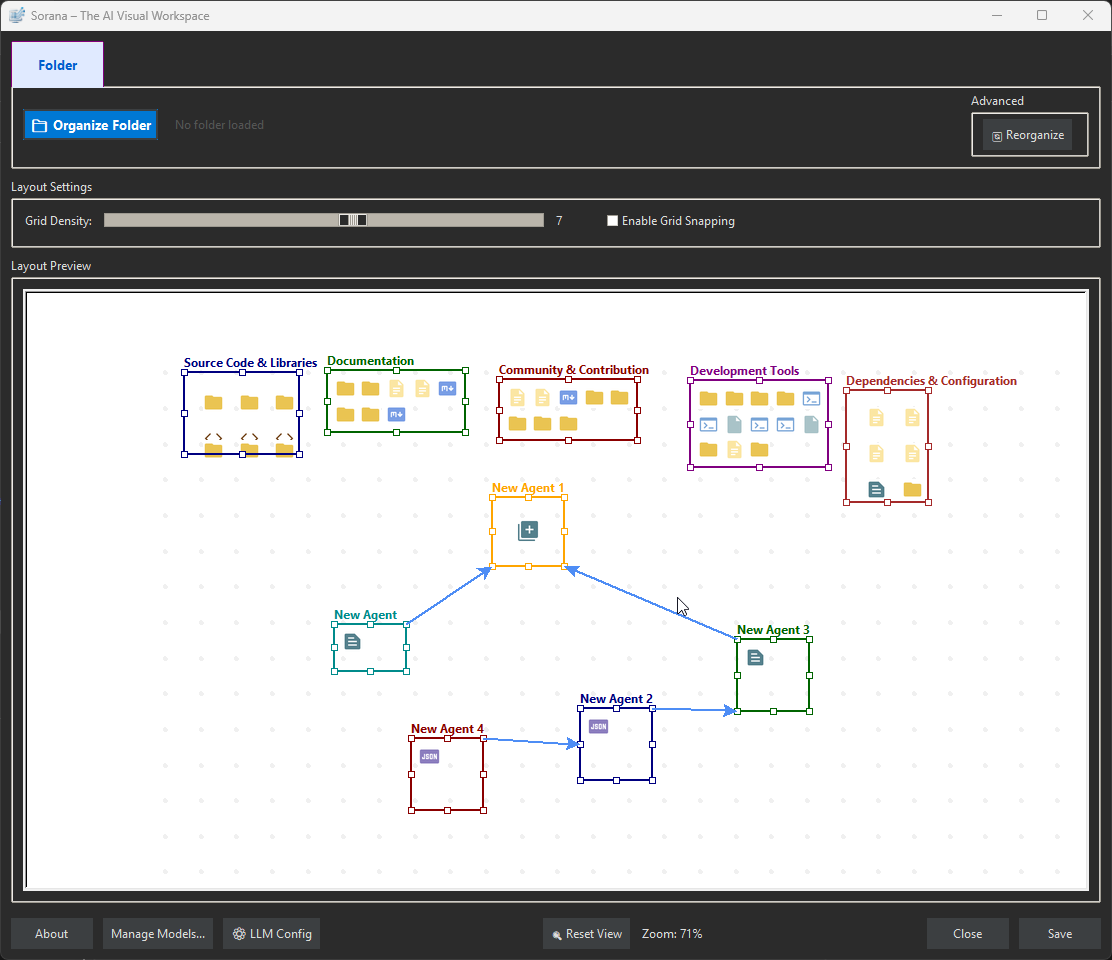
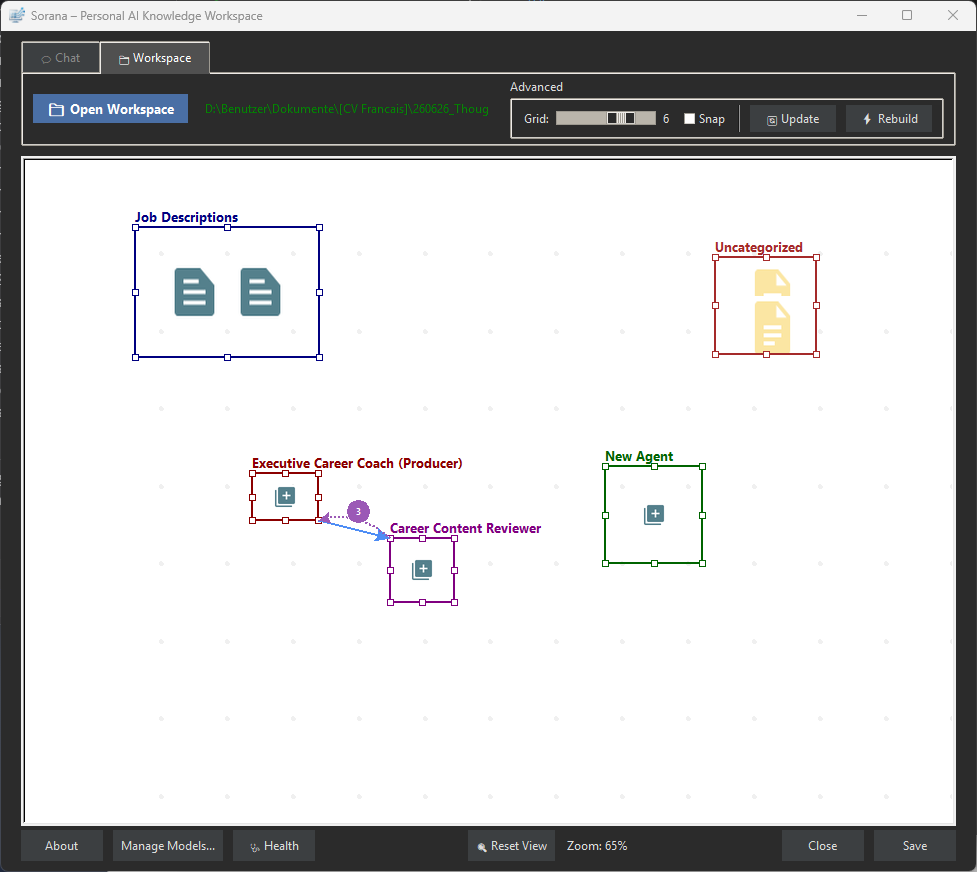
feat(docs): add discover card component for game listings
- Added `discover-card` class to `index.html` to render image and description cards.
  - Implemented HTML structure with `<img>` tags and associated text content for each game entry.
  - Separated the main footer section from the new discovery cards into a proper `<section>`.

diff --git a/docs/index.html b/docs/index.html
@@ -2152,12 +2152,34 @@ footer {
       </div>
     </div>
     <div class="discover-card">
+      <img src="250516_ezgif.com-optimize.gif" alt="New Spaceship retro arcade game" loading="lazy" width="640" height="400">
+      <div class="discover-card-body">
+        <h3>New Spaceship</h3>
+        <p>Retro Arcade 2D side-scroller bullet-hell shmup game.</p>
+        <div class="discover-links">
+          <a href="http://tetramatrix.github.io/spaceship" target="_blank" rel="noopener">Website</a>
+          <a href="https://tetramatrix.itch.io/old-school-retro-mini-game-spaceship" target="_blank" rel="noopener">itch.io</a>
+          <a href="https://www.indiedb.com/games/new-spaceship" target="_blank" rel="noopener">IndieDB</a>
+        </div>
+      </div>
+    </div>
+    <div class="discover-card">
       <img src="RyzenZPilot_3.1.3.png" alt="RyzenZPilot AMD power management" loading="lazy" width="640" height="400">
       <div class="discover-card-body">
         <h3>RyzenZPilot</h3>
         <p>Powerful tool for managing AMD Ryzen processor power settings on Windows. Adjust CPU performance, power limits, and thermal configurations.</p>
         <div class="discover-links">
           <a href="http://tetramatrix.github.io/RyzenZPilot" target="_blank" rel="noopener">Website</a>
+        </div>
+      </div>
+    </div>
+    <div class="discover-card">
+      <img src="Audrix_Main.png" alt="Audrix main interface" loading="lazy" width="640" height="400">
+      <div class="discover-card-body">
+        <h3>Audrix</h3>
+        <p>Real-time speech-to-text engine. Capture microphone or system audio, transcribe instantly with noise suppression and crosstalk detection. Runs entirely offline on Windows.</p>
+        <div class="discover-links">
+          <a href="http://tetramatrix.github.io/Audrix" target="_blank" rel="noopener">Website</a>
         </div>
       </div>
     </div>
